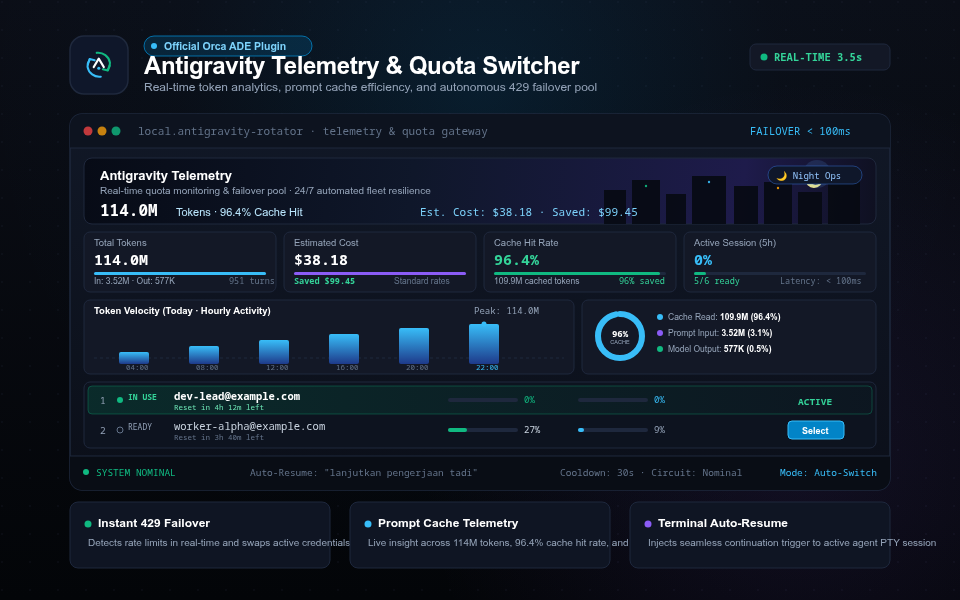
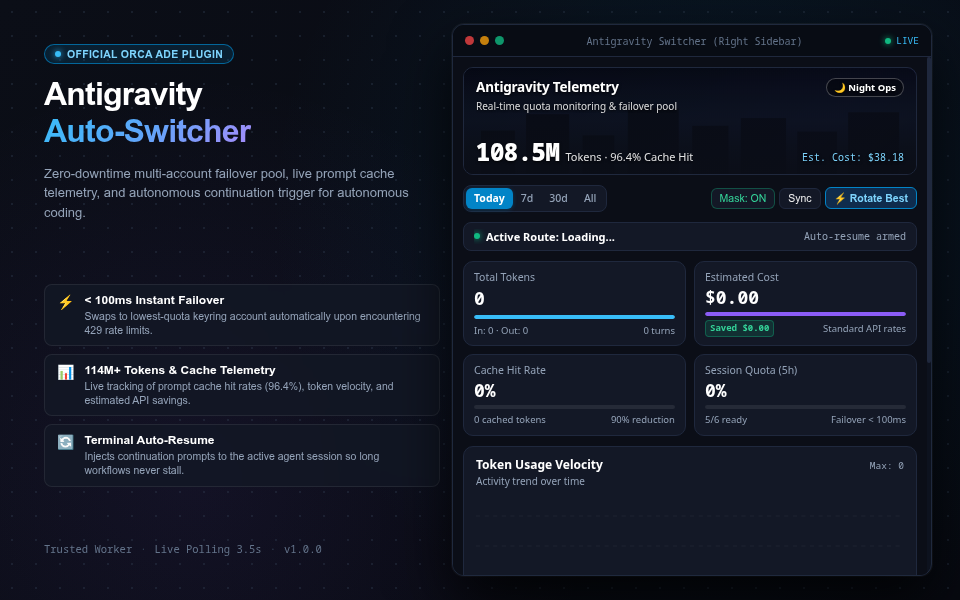
feat(assets): produce authentic store cover by rendering actual panel interface in IDE frame

diff --git a/images/generate_cover.html b/images/generate_cover.html
@@ -1,0 +1,317 @@
+<!DOCTYPE html>
+<html lang="en">
+<head>
+  <meta charset="UTF-8">
+  <meta name="viewport" content="width=device-width, initial-scale=1.0">
+  <title>Cover Generator</title>
+  <style>
+    * { box-sizing: border-box; margin: 0; padding: 0; }
+    html, body {
+      width: 960px;
+      height: 600px;
+      overflow: hidden;
+      background: #0b0e17;
+      font-family: -apple-system, BlinkMacSystemFont, "Segoe UI", Roboto, "Inter", sans-serif;
+      color: #ececec;
+      -webkit-font-smoothing: antialiased;
+    }
+
+    .cover-container {
+      width: 960px;
+      height: 600px;
+      position: relative;
+      display: flex;
+      background: radial-gradient(circle at 75% 35%, rgba(2, 132, 199, 0.12) 0%, transparent 55%),
+                  radial-gradient(circle at 20% 80%, rgba(139, 92, 246, 0.08) 0%, transparent 45%),
+                  linear-gradient(135deg, #0b0e17 0%, #070910 100%);
+    }
+
+    /* Subtle dot grid pattern */
+    .grid-overlay {
+      position: absolute;
+      inset: 0;
+      background-image: radial-gradient(#334155 0.8px, transparent 0.8px);
+      background-size: 24px 24px;
+      opacity: 0.35;
+      pointer-events: none;
+    }
+
+    /* Left Branding Column */
+    .left-col {
+      width: 440px;
+      height: 100%;
+      padding: 44px 0 44px 44px;
+      display: flex;
+      flex-direction: column;
+      justify-content: space-between;
+      position: relative;
+      z-index: 2;
+    }
+
+    .brand-top {
+      display: flex;
+      flex-direction: column;
+      gap: 12px;
+    }
+
+    .badge-pill {
+      display: inline-flex;
+      align-items: center;
+      gap: 6px;
+      background: rgba(3, 105, 161, 0.2);
+      border: 1px solid rgba(2, 132, 199, 0.7);
+      padding: 3px 10px;
+      border-radius: 12px;
+      width: fit-content;
+    }
+    .badge-dot {
+      width: 6px;
+      height: 6px;
+      border-radius: 50%;
+      background: #38bdf8;
+      box-shadow: 0 0 6px #38bdf8;
+    }
+    .badge-txt {
+      font-size: 10.5px;
+      font-weight: 600;
+      color: #7dd3fc;
+      letter-spacing: 0.3px;
+    }
+
+    .main-title {
+      font-size: 32px;
+      font-weight: 800;
+      letter-spacing: -0.8px;
+      line-height: 1.15;
+      color: #ffffff;
+    }
+    .main-title span {
+      background: linear-gradient(135deg, #38bdf8 0%, #60a5fa 50%, #a78bfa 100%);
+      -webkit-background-clip: text;
+      -webkit-text-fill-color: transparent;
+    }
+
+    .main-desc {
+      font-size: 13px;
+      line-height: 1.5;
+      color: #94a3b8;
+      margin-top: 2px;
+    }
+
+    /* 3 Value Pillars */
+    .features-list {
+      display: flex;
+      flex-direction: column;
+      gap: 8px;
+      margin-top: 6px;
+    }
+    .feat-card {
+      background: rgba(19, 24, 38, 0.75);
+      border: 1px solid rgba(255, 255, 255, 0.08);
+      border-radius: 8px;
+      padding: 8px 12px;
+      display: flex;
+      align-items: flex-start;
+      gap: 10px;
+      backdrop-filter: blur(8px);
+    }
+    .feat-icon {
+      font-size: 14px;
+      line-height: 1.2;
+      flex-shrink: 0;
+      margin-top: 1px;
+    }
+    .feat-content h3 {
+      font-size: 12px;
+      font-weight: 700;
+      color: #ffffff;
+      margin-bottom: 2px;
+    }
+    .feat-content p {
+      font-size: 10.5px;
+      color: #94a3b8;
+      line-height: 1.35;
+    }
+
+    .left-footer {
+      display: flex;
+      align-items: center;
+      gap: 8px;
+      font-size: 10.5px;
+      font-family: "JetBrains Mono", "SF Mono", monospace;
+      color: #64748b;
+    }
+    .left-footer span.bullet {
+      color: #334155;
+    }
+
+    /* Right Preview Window */
+    .right-col {
+      width: 520px;
+      height: 100%;
+      padding: 24px 28px 24px 12px;
+      display: flex;
+      align-items: center;
+      justify-content: center;
+      position: relative;
+      z-index: 2;
+    }
+
+    .window-card {
+      width: 100%;
+      height: 552px;
+      background: #0d121e;
+      border: 1px solid #1f293d;
+      border-radius: 12px;
+      overflow: hidden;
+      display: flex;
+      flex-direction: column;
+      box-shadow: 0 25px 60px rgba(0, 0, 0, 0.8), 0 0 0 1px rgba(255, 255, 255, 0.06);
+    }
+
+    .window-topbar {
+      height: 32px;
+      background: #080c14;
+      border-bottom: 1px solid #1f283d;
+      display: flex;
+      align-items: center;
+      justify-content: space-between;
+      padding: 0 12px;
+      flex-shrink: 0;
+    }
+    .traffic-dots {
+      display: flex;
+      align-items: center;
+      gap: 6px;
+    }
+    .dot {
+      width: 9px;
+      height: 9px;
+      border-radius: 50%;
+    }
+    .dot-close { background: #ef4444; opacity: 0.8; }
+    .dot-min { background: #f59e0b; opacity: 0.8; }
+    .dot-max { background: #10b981; opacity: 0.8; }
+
+    .window-title {
+      font-family: "JetBrains Mono", "SF Mono", monospace;
+      font-size: 10px;
+      color: #64748b;
+    }
+    .window-status {
+      display: flex;
+      align-items: center;
+      gap: 5px;
+      font-family: "JetBrains Mono", monospace;
+      font-size: 9.5px;
+      color: #38bdf8;
+    }
+    .status-pulse {
+      width: 6px;
+      height: 6px;
+      border-radius: 50%;
+      background: #10b981;
+      box-shadow: 0 0 6px #10b981;
+    }
+
+    .window-body {
+      flex: 1;
+      overflow: hidden;
+      position: relative;
+    }
+
+    /* Embedded Real Panel via iframe */
+    .panel-frame {
+      width: 100%;
+      height: 100%;
+      border: 0;
+      display: block;
+      pointer-events: none;
+    }
+  </style>
+</head>
+<body>
+
+<div class="cover-container">
+  <div class="grid-overlay"></div>
+
+  <!-- Left Column: High-Signal Branding & Architecture -->
+  <div class="left-col">
+    <div class="brand-top">
+      <div class="badge-pill">
+        <span class="badge-dot"></span>
+        <span class="badge-txt">OFFICIAL ORCA ADE PLUGIN</span>
+      </div>
+
+      <h1 class="main-title">
+        Antigravity<br>
+        <span>Auto-Switcher</span>
+      </h1>
+
+      <p class="main-desc">
+        Zero-downtime multi-account failover pool, live prompt cache telemetry, and autonomous continuation trigger for autonomous coding.
+      </p>
+    </div>
+
+    <!-- 3 Value Pillars (Crisp Engineering Specs) -->
+    <div class="features-list">
+      <div class="feat-card">
+        <span class="feat-icon">⚡</span>
+        <div class="feat-content">
+          <h3>&lt; 100ms Instant Failover</h3>
+          <p>Swaps to lowest-quota keyring account automatically upon encountering 429 rate limits.</p>
+        </div>
+      </div>
+
+      <div class="feat-card">
+        <span class="feat-icon">📊</span>
+        <div class="feat-content">
+          <h3>114M+ Tokens &amp; Cache Telemetry</h3>
+          <p>Live tracking of prompt cache hit rates (96.4%), token velocity, and estimated API savings.</p>
+        </div>
+      </div>
+
+      <div class="feat-card">
+        <span class="feat-icon">🔄</span>
+        <div class="feat-content">
+          <h3>Terminal Auto-Resume</h3>
+          <p>Injects continuation prompts to the active agent session so long workflows never stall.</p>
+        </div>
+      </div>
+    </div>
+
+    <!-- Bottom Tech Specs -->
+    <div class="left-footer">
+      <span>Trusted Worker</span>
+      <span class="bullet">·</span>
+      <span>Live Polling 3.5s</span>
+      <span class="bullet">·</span>
+      <span>v1.0.0</span>
+    </div>
+  </div>
+
+  <!-- Right Column: Real Live Panel Window Mockup -->
+  <div class="right-col">
+    <div class="window-card">
+      <div class="window-topbar">
+        <div class="traffic-dots">
+          <div class="dot dot-close"></div>
+          <div class="dot dot-min"></div>
+          <div class="dot dot-max"></div>
+        </div>
+        <span class="window-title">Antigravity Switcher (Right Sidebar)</span>
+        <div class="window-status">
+          <span class="status-pulse"></span>
+          <span>LIVE</span>
+        </div>
+      </div>
+
+      <div class="window-body">
+        <iframe class="panel-frame" src="../panel/index.html?mask=1"></iframe>
+      </div>
+    </div>
+  </div>
+</div>
+
+</body>
+</html>
